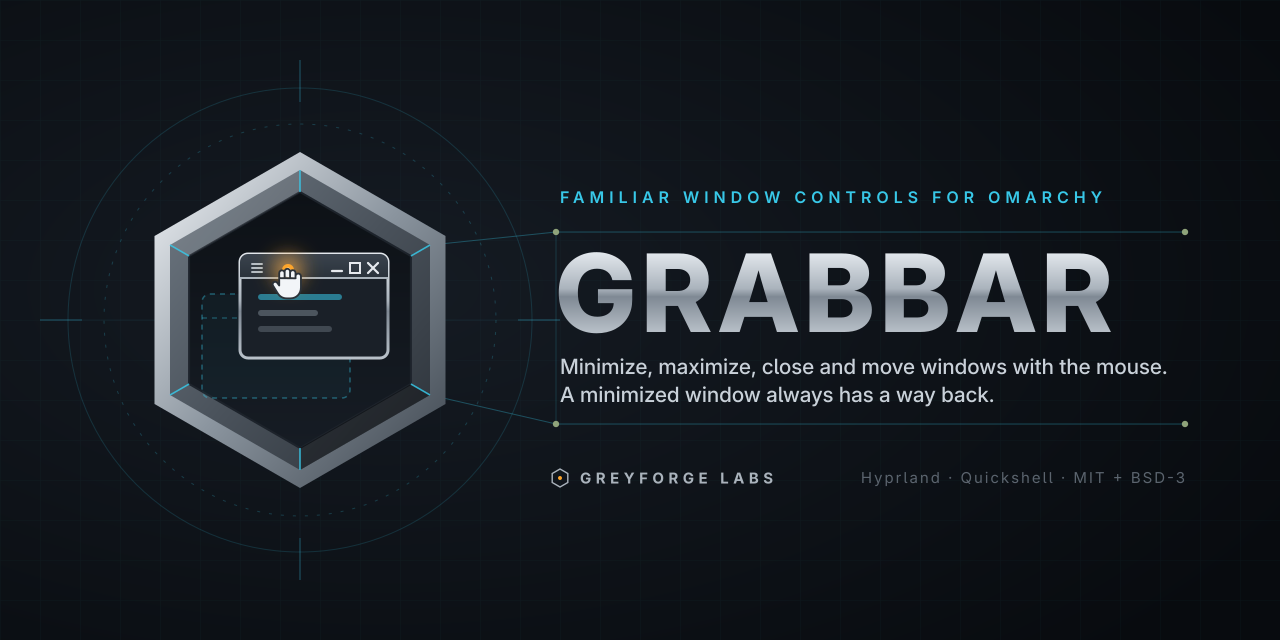
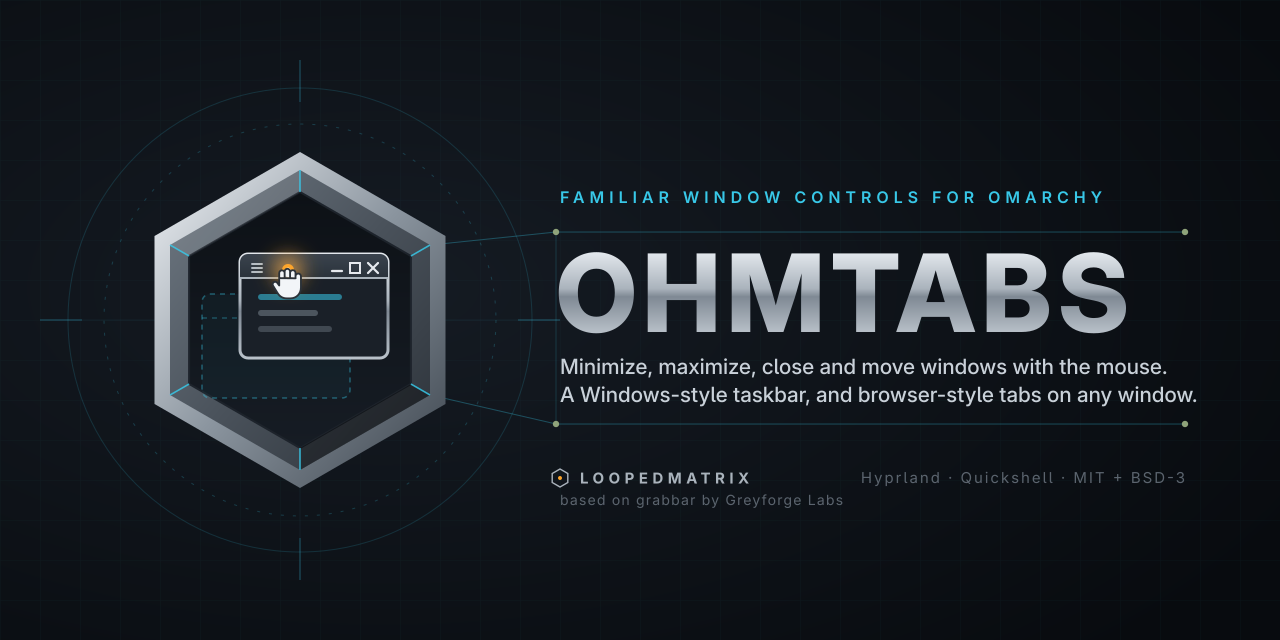
docs: rewrite the project page for OhmTabs
- README: drop the post-rename name/label bookkeeping and the
  'why a fork' framing; document what actually ships (taskbar, window
  tabs with the close-all confirmation, IPC group verbs, per-monitor
  panels), add a screenshots section and a requirements section.
- Known issues / roadmap now match reality: the multi-monitor
  duplicate-surface issue is fixed (resolveScreen), snap-lock shipped,
  and the live reports about auto-hide reveal, missed clicks and flat
  tab styling are recorded with their workarounds.
- Brand: re-render the banner and mark PNGs from their SVGs. The PNGs
  still rendered the old upstream wordmark in pixels (OCR: 'GRABBAR',
  'GREYFORGE LABS'); the banner now reads OHMTABS / LOOPEDMATRIX and
  credits grabbar by Greyforge Labs as a lineage line instead of
  presenting upstream as the brand.

Changed region(s): [[0.4688, 0.375, 0.9062, 0.5312], [0.4375, 0.5938, 0.9375, 0.6562], [0.4375, 0.7188, 0.625, 0.8125]]

diff --git a/README.md b/README.md
@@ -1,4 +1,4 @@
-<h1 align="center">ohmtabs</h1>
+# OhmTabs
 
 <p align="center">
   <img src="docs/brand/ohmtabs-banner.png" alt="OhmTabs — familiar window controls for Omarchy" width="100%">
@@ -11,29 +11,34 @@
   <img alt="Hyprland 0.56.2" src="https://img.shields.io/badge/Hyprland-0.56.2-38c8e8?labelColor=0b0f14">
 </p>
 
-**ohmtabs** gives ordinary application windows a Windows/macOS-style title strip — a window menu, Minimize, Maximize/Restore, Close, and drag-to-move — and **adds a Windows-style minimized-window taskbar** to [Omarchy](https://github.com/omacom/omarchy) (Arch + Hyprland). It is a [Quickshell](https://github.com/outfoxxed/quickshell) plugin.
+**OhmTabs** gives ordinary application windows a Windows/macOS-style title strip — window menu, Minimize, Maximize/Restore, Close, drag-to-move — and **adds two things Omarchy doesn't have out of the box**: a **Windows-style taskbar for minimized windows**, and **browser-style tabs**, where dropping one window onto another turns the target into a tab host.
 
-> **Name vs. label.** The repository and project are **ohmtabs**, but the plugin's id (`tech.loopedmatrix.ohmtabs`) and its visible label (**OhmTabs**) are intentionally kept unchanged, so live installs and saved settings keep working. In the UI and in file paths you will still see "OhmTabs"; that is the same plugin.
+It is a [Quickshell](https://github.com/outfoxxed/quickshell) plugin paired with a native Hyprland plugin that draws the strips and moves the windows.
 
-<img src="docs/screenshots/desktop.png" alt="Title strips on focused and unfocused windows" width="100%">
+<img src="docs/screenshots/desktop.png" alt="OhmTabs title strips on focused and unfocused windows" width="100%">
 
-## Why a fork?
+## Requirements
 
-OhmTabs is a personal fork of [GreyforgeLabs/omarchy-grabbar](https://github.com/GreyforgeLabs/omarchy-grabbar) ("OhmTabs"), which is itself based on [hyprbars](https://github.com/hyprwm/hyprland-plugins). We forked it because **our version deviates substantially from upstream** — it replaces the drawer-first minimized-window UX with a real taskbar and adds a scripting/IPC surface, hot-applied settings, and a critical freeze fix — changes we wanted to live under our own repo name rather than as an upstream patch. The core strip work, the journal/recovery machinery, and the test suite are inherited from upstream and credited in [License & credits](#license--credits).
+- [Omarchy](https://github.com/omacom/omarchy) 4 (Arch + Hyprland), Hyprland **0.56.2** — the native half uses the Lua dispatcher API
+- Quickshell (shipped with Omarchy), Qt 6, a C++17 compiler and `make` for the native half
+- Optional: `bin/ohmtabs` for the CLI, and a symlink into `~/.local/bin` if you want it on `PATH`
 
-### What our version adds
+## What it is, and where it comes from
+
+OhmTabs is a personal fork of [GreyforgeLabs/omarchy-grabbar](https://github.com/GreyforgeLabs/omarchy-grabbar) (which is itself based on [hyprbars](https://github.com/hyprwm/hyprland-plugins)). It was forked because the version here **deviates substantially from upstream** — the drawer-first minimized-window UX was replaced with a real taskbar, window tabs were added, and the shell-facing surface (IPC, hot-applied settings, recovery tooling) was rebuilt. Upstream's strip backend, recovery journal and test suite are inherited and credited in [License & credits](#license--credits).
 
 | Area | What changed |
 | --- | --- |
-| **Minimized-window taskbar** | A Windows-style taskbar ([`SidePanel.qml`](SidePanel.qml)) replaces the drawer-first UX. Bottom/left/right placement, auto-hide-until-hover with a 4 px reveal sliver, app badge + title + origin rows, and **Restore all**. It draws *no surface at all* when nothing is minimized (`live = panelEnabled && count > 0`). |
-| **Hot-applied settings** | Every setting in the plugin's `shell.json` entry is watched and applied live — changing `panelPosition` or `panelAutoHide` takes effect with **no shell restart**. |
-| **The freeze fix** | Upstream's bar assigns `settings`/`moduleName`/`bar` onto every widget. We made those writable, fixing a `TypeError: Cannot assign to read-only property "settings"` that wedged the whole shell (commit `0d79811`). See [Troubleshooting](#troubleshooting). |
-| **Scripting / IPC surface** | A complete command surface — `status`, `minimize`, `restore`, `restoreAll`, `openDrawer`, `openSettings`, `reconcile`, `disable`, `enable`, `ping` — plus the `bin/ohmtabs` CLI and a stable token format. |
-| **Kept from upstream** | The native title-strip backend, the drawer view, the menu, the autoload journal, and the offline test suite. |
+| **Minimized-window taskbar** | A Windows-style taskbar ([`SidePanel.qml`](SidePanel.qml)) replaces the drawer-first UX: bottom/left/right placement, app icon + title + origin workspace, **Restore all**, optional auto-hide with a 4 px reveal sliver, and *no surface at all* when nothing is minimized (`live = panelEnabled && count > 0`). |
+| **Window tabs** | Dropping a window onto another makes the target the **host** and gives its title strip a tab strip (drawn natively), browser-style: per-group alt-tab (`groupCycle`), drag a tab out to detach, and a **"close all N window(s)?"** confirmation before a group closes — see [Tab groups](#tab-groups). |
+| **Hot-applied settings** | The plugin's settings entry is watched and applied live — changing `panelPosition` or `panelAutoHide` takes effect with **no shell restart**. |
+| **Scripting / IPC surface** | A complete command surface plus the `bin/ohmtabs` CLI and a stable token format. |
+| **The freeze fix** | Upstream's bar assigns `settings`/`moduleName`/`bar` onto every widget. Those are writable here, fixing a `TypeError: Cannot assign to read-only property "settings"` that wedged the whole shell (commit `0d79811`). See [Troubleshooting](#troubleshooting). |
+| **Per-monitor panels** | The taskbar resolves its own screen (`resolveScreen()`), so multi-monitor setups get exactly one panel per monitor instead of N stacked surfaces. |
 
 ## Install
 
-Two parts: the **shell plugin** (widget, taskbar, settings, IPC) and the **native strip backend** (an Hyprland plugin that draws the strips and moves minimized windows).
+Two parts: the **shell plugin** (widget, taskbar, tabs, settings, IPC) and the **native strip backend** (a Hyprland plugin that draws the strips, hosts the tabs and moves minimized windows).
 
 ### 1. Shell plugin
 
@@ -41,7 +46,7 @@ Two parts: the **shell plugin** (widget, taskbar, settings, IPC) and the **nativ
 omarchy plugin add https://github.com/LoopedMatrix/ohmtabs.git --enable
 ```
 
-This installs the plugin to `~/.config/omarchy/plugins/tech.loopedmatrix.ohmtabs` (the id is kept from upstream for compatibility) and enables it.
+This installs to `~/.config/omarchy/plugins/tech.loopedmatrix.ohmtabs` and enables it.
 
 ### 2. Native strip backend
 
@@ -51,17 +56,17 @@ make -C native/ohmtabs CXX=g++
 hyprctl plugin load ./native/ohmtabs/ohmtabs.so
 ```
 
-> **Without the native part** there are no strips and Minimize stays off; the shell side (bar widget, taskbar/drawer, settings, IPC) still mounts and the drawer still lists nothing to restore.
+> **Without the native part** there are no strips, no tabs, and Minimize stays off; the shell side (bar widget, taskbar, settings, IPC) still mounts.
 
-### 3. Autoload (optional)
+### 3. Autoload and the CLI (optional)
 
 ```sh
 cd ~/.config/omarchy/plugins/tech.loopedmatrix.ohmtabs
-ln -s "$(pwd)/bin/ohmtabs" ~/.local/bin/ohmtabs   # optional, for the CLI
-ohmtabs autoload enable                           # survive shell restarts
+ln -s "$(pwd)/bin/ohmtabs" ~/.local/bin/ohmtabs   # optional: CLI on PATH
+ohmtabs autoload enable                           # survive compositor/shell restarts
 ```
 
-See [docs/AUTOLOAD.md](docs/AUTOLOAD.md) for what autoload does under the hood.
+[`docs/AUTOLOAD.md`](docs/AUTOLOAD.md) explains the autoload hook and its boot guard.
 
 ## Everyday use
 
@@ -70,38 +75,45 @@ See [docs/AUTOLOAD.md](docs/AUTOLOAD.md) for what autoload does under the hood.
 Every ordinary application window gets a strip above its top edge:
 
 - **Menu** (hamburger) or **right-click the strip** — window menu (Restore, Minimize, Maximize/Restore, Close).
-- **Minimize** — moves the window off-screen to the minimized workspace and shows it in the taskbar.
+- **Minimize** — moves the window to the minimized workspace and shows it in the taskbar.
 - **Maximize/Restore** — the button reflects the current state.
 - **Close** — closes the window.
 - **Drag the strip** — move the window; dragging a tiled window detaches it to floating at 60 %.
 - **Double-click the title** — toggle maximize.
 - **Resize** — drag the strip's edge/corners with `general:resize_on_border = true`.
 
-Window controls sit on the right by default; set `buttonsLeft` to put them on the left. Hide the strip for specific apps with `excludedClasses`.
+Controls sit on the right by default; `buttonsLeft` moves them to the left. Hide the strip per app with `excludedClasses`.
 
 ### Minimizing and the taskbar
 
-Minimizing moves a window to the special workspace `special:ohmtabs-minimized`; the taskbar shows one row per minimized window (app badge, title, and the workspace it came from):
+Minimizing moves a window to the special workspace `special:ohmtabs-minimized`. The taskbar shows one button per minimized window, with the app's real icon, the title, and the workspace it came from:
 
-- **Left-click** a row → restore to the **current** workspace.
-- **Right-click** a row → restore to its **original** workspace.
+- **Left-click** a button → restore to the **current** workspace.
+- **Right-click** a button → restore to its **original** workspace.
 - **Restore all** (far end) → restore everything.
-- The taskbar sits on the bottom by default; `panelPosition` moves it to `left` or `right`, and `panelAutoHide` parks it off-screen with a 4 px sliver that expands on hover.
-- When the taskbar is empty it is entirely hidden (by design).
+- Default placement is the bottom; `panelPosition` moves it to `left` or `right`, and `panelAutoHide` parks it off-screen behind a 4 px sliver that expands on hover.
+- Empty taskbar → no surface at all (by design).
+
+### Tab groups
+
+Tab grouping is opt-in: set `tabGroups: true` on the plugin's settings entry.
+
+- **Drop a window onto another** — the target becomes the **host**, its title strip gains a tab strip, and the dropped window becomes a tab. Tab titles come from the windows themselves.
+- **Click a tab** to switch to it; **drag a tab out** to detach it back into a normal window. A group that drops to one window dissolves.
+- **Alt-tab inside a group** is exposed as `groupCycle <hostToken> <prev|next> <pointerInside>`, not as an installed keybind. Bind a key (e.g. `SUPER+TAB`) that calls it and falls back to the compositor (`hyprctl cyclenext`) when it returns `fallthrough` — i.e. when the pointer is not over the host's tab strip. Hyprland's built-in alt-tab is a compositor binding no plugin can intercept, so nothing changes until you add that binding.
+- **Closing a group** with more than one window asks first — *"are you sure you want to close all N windows?"* — listing the tab titles, with **Cancel** and **Close all**. Cancel/Escape dismisses it with no action, and it does not steal focus from the rest of the shell.
 
 ### The bar drawer
 
-The bar widget shows a window-stack glyph and a count of minimized windows:
+The bar widget shows a window-stack glyph and a count:
 
-- **Left-click** the widget → open the drawer (newest-first list with Restore / Original workspace / Restore all).
-- **Middle-click** the widget → restore all.
-- **Right-click** the widget → open settings.
+- **Left-click** → open the drawer (newest-first list with Restore / Original workspace / Restore all).
+- **Middle-click** → restore all.
+- **Right-click** → open settings.
 
-When `sidePanel` is `true` (the default), the taskbar appears on its own and the drawer doubles as the detail view.
+### Keyboard navigation
 
-### Keyboard navigation in the taskbar
-
-Hovering or clicking a row gives the panel keyboard focus, after which:
+Hovering or clicking a button gives the panel keyboard focus:
 
 | Key | Action |
 | --- | --- |
@@ -112,152 +124,140 @@ Hovering or clicking a row gives the panel keyboard focus, after which:
 | `Ctrl`+`A` | Restore all |
 | `Esc` | Dismiss |
 
+## Screenshots
+
+| | |
+| --- | --- |
+| <img src="docs/screenshots/drawer.png" alt="The minimized-windows drawer"> | <img src="docs/screenshots/window-menu.png" alt="The window menu on a title strip"> |
+| The drawer | The window menu |
+| <img src="docs/screenshots/settings.png" alt="OhmTabs settings"> | <img src="docs/screenshots/drawer-card.png" alt="Minimized-window card"> |
+| Settings | A minimized-window card |
+
 ## Configuration
 
-Settings live in the plugin's `shell.json` entry (edit through **Settings**, or directly in the shell config). All of them hot-apply — the service watches the entry and re-reads it live, no shell restart needed.
+Settings live in the plugin's `shell.json` entry — edit them in **Settings** (bar widget → right-click → Settings) or directly in the shell config. All of them hot-apply; no shell restart.
 
 | Key | Type | Default | Effect |
 | --- | --- | --- | --- |
 | `enabled` | bool | `true` | Master switch for strips + Minimize. Turning it off restores minimized windows first. |
 | `buttonsLeft` | bool | `false` | Window controls on the left (`true`) or right (`false`). |
-| `showOnHover` | bool | `false` | *Legacy* — draw the strip only while the pointer is near the window's top edge. |
-| `controlSize` | `"standard"` \| `"large"` | `"standard"` | Strip thickness: 34 px (standard) vs 46 px (large). |
+| `showOnHover` | bool | `false` | Draw the strip only while the pointer is near the window's top edge (legacy upstream behaviour). |
+| `controlSize` | `"standard"` \| `"large"` | `"standard"` | Strip thickness: 34 px vs 46 px. |
 | `excludedClasses` | string[] | `[]` | App classes whose windows get no strip (same as "Hide OhmTabs for this app"). |
 | `sidePanel` | bool | `true` | Windows-style taskbar (`true`) vs the in-bar drawer only (`false`). |
 | `panelPosition` | `"bottom"` \| `"left"` \| `"right"` | `"bottom"` | Screen edge the taskbar sits on. |
 | `panelAutoHide` | bool | `true` | Park the taskbar off the edge until the pointer reaches it. |
-| `tabGroups` | bool | `false` | If `true`, the bar accepts window-tab grouping: dropping one window onto another hosts a tab group, alt-tab within a group is exposed as the opt-in `groupCycle` method (no keybind is installed by default), and closing a group with more than one window asks before closing all of them. The tab strip itself is drawn by the native backend on the host window's title strip; the shell side is the IPC + the close-all confirm prompt. |
+| `tabGroups` | bool | `false` | Enable window tabs (host/tab creation, `groupCycle`, close-all confirmation). The tab strip itself is drawn natively on the host's title strip. |
 
-### Tab groups
-
-When `tabGroups: true` is set on the bar's layout entry:
-
-- **Dropping a window onto another** makes the target the *host* and turns the dragged window into a tab in the host's group. The host's native title strip gains the tab strip (drawn natively). The shell keeps the group state and the list of tab titles; the visual strip is the backend's.
-- **Alt-tab within a group** is a decision the shell exposes, not a binding this plugin installs. `omarchy-shell tech.loopedmatrix.ohmtabs groupCycle <hostToken> <prev|next> <true|false>` returns the token of the tab it switched to, or `fallthrough` when the group holds fewer than two tabs or the pointer is not over the host's strip. Browser-like alt-tab is therefore opt-in: bind a key (e.g. SUPER+TAB) that calls `groupCycle` and, on `fallthrough`, hands alt-tab back to the compositor (e.g. `hyprctl cyclenext`). Hyprland's built-in alt-tab is a compositor binding the plugin cannot intercept, so nothing changes until you add that binding.
-- **Closing a group** with more than one window triggers a confirm prompt: "are you sure you want to close all N windows?" with the tab titles listed, like a browser. Yes closes all the group's windows; Cancel/Escape dismisses the prompt with no action. There is no focus steal from the rest of the shell for the prompt.
-- The `tabGroups` setting is off by default. Until it is turned on explicitly in the bar's layout entry, the tab verbs are not wired and nothing about the panel changes.
-- The close-all prompt is a theme-matched popup built on the shell's `PopupCard` UI component, so it inherits the user's theme rather than being a separate-styled card. It lists the tab titles and offers **Cancel** and **Close all**; Escape dismisses it with no action.
-
-Unknown keys are ignored; invalid values fall back to the default. Values are validated in [`OhmTabsModel.js`](OhmTabsModel.js) (`normalizeSettings`).
+Unknown keys are ignored and invalid values fall back to the default; validation lives in [`OhmTabsModel.js`](OhmTabsModel.js) (`normalizeSettings`).
 
 ### Native config fallback
 
-When the shell isn't connected yet, the native backend falls back to `plugin:ohmtabs:*` keys in `hyprland.lua` (these are overridden by the shell theme/settings once connected):
+Before the shell connects, the native half reads `plugin:ohmtabs:*` keys set in `hyprland.lua` (the shell's theme/settings override them once connected):
 
-`enabled`, `buttons_left`, `bar_height` (34), `button_size` (32), `padding` (4), `text_size` (11), `text_font` (`"Sans"`), `bar_color`, `inactive_bar_color`, `text_color`, `hover_color`, `close_hover_color`, `shell_grace_ms` (2000). Per-window opt-out via the `ohmtabs:no_bar` window rule.
+`enabled`, `buttons_left`, `bar_height` (34), `button_size` (32), `padding` (4), `text_size` (11), `text_font` (`"Sans"`), `bar_color`, `inactive_bar_color`, `text_color`, `hover_color`, `close_hover_color`, `shell_grace_ms` (2000). Per-window opt-out with the `ohmtabs:no_bar` window rule.
 
 ## Command line & scripting
 
-`bin/ohmtabs` (optionally linked into `~/.local/bin`) wraps the plugin's IPC:
+`bin/ohmtabs` wraps the plugin's IPC:
 
 ```
-ohmtabs                 open the drawer
-ohmtabs settings        open settings
-ohmtabs status [--json] show backend + minimized-window state
-ohmtabs windows         list known windows
+ohmtabs                      open the minimized-windows drawer (Settings when OhmTabs is off)
+ohmtabs setup|settings       open Settings (setup includes the setup check)
+ohmtabs status [--json]      health, compatibility and owned minimized-window metadata
+ohmtabs windows              list windows known to the native backend
 ohmtabs restore TOKEN [--original]   restore one minimized window
-ohmtabs restore-all     restore all minimized windows
-ohmtabs doctor          diagnose the install
+ohmtabs restore-all          recover every live window owned by OhmTabs
+ohmtabs doctor               read-only diagnostic report; never an implicit repair
 ohmtabs autoload status|enable|disable|retry
-ohmtabs enable|disable  toggle the plugin
-ohmtabs uninstall       remove autoload + backend
+ohmtabs enable|disable       toggle OhmTabs (disable restores windows first)
+ohmtabs uninstall            restore windows, turn OhmTabs off, remove autoload hook + plugin
 ```
 
 Exit codes: `0` ok · `2` usage · `3` backend unavailable · `4` stale target · `5` restore UI unavailable (shell service not running) · `6` state write failed · `7` incomplete recovery.
 
 ### IPC surface
 
-The plugin's `IpcHandler` (in [`Service.qml`](Service.qml)) exposes these methods over Quickshell's IPC — call them via `omarchy-shell tech.loopedmatrix.ohmtabs <method> [args]`:
+The plugin's `IpcHandler` (in [`Service.qml`](Service.qml)) is reachable over Quickshell's IPC — `omarchy-shell tech.loopedmatrix.ohmtabs <method> [args]`:
 
 | Method | Args | Returns |
 | --- | --- | --- |
 | `status` | — | JSON: `backend.ready`, `enabled`, `minimizeEnabled`, `restoreHost`, `failed`, `backend.epoch`, `entries[]`, `minimized` |
-| `minimize` | `token` | Minimizes the window identified by `token` |
+| `minimize` | `token` | Minimizes the identified window |
 | `restore` | `token`, `mode` | Restores `token`; `mode` is `"original"` or `"current"` |
 | `restoreAll` | — | Restores every minimized window |
-| `openDrawer` | — | Opens the bar drawer |
-| `openSettings` | — | Opens settings |
+| `openDrawer` / `openSettings` | — | Opens the drawer / settings |
 | `reconcile` | — | Re-syncs model state with the backend |
-| `disable` / `enable` | — | Toggle the plugin |
-| `ping` | — | Liveness check |
+| `disable` / `enable` / `ping` | — | Toggle the plugin / liveness check |
+| `groupCreate` / `groupRemove` | `token` | Turn a window into a tab host / dissolve its group |
+| `groupAddMember` / `groupRemoveMember` | `hostToken`, `memberToken` | Add or detach a tab |
+| `groupActivate` | `hostToken`, `memberToken` | Switch a group to that tab |
+| `groupCycle` | `hostToken`, `prev\|next`, `pointerInside` | Next/previous tab, or `fallthrough` |
+| `groupClose` / `groupCloseForce` | `token` | Close a group (Force skips the confirmation) |
 
-**Token format.** Each minimized window is identified by a token `g<epoch>-<generation>` (e.g. `g1789644541-6`), minted by `tokenFor()` in [`native/ohmtabs/backend.cpp`](native/ohmtabs/backend.cpp). Read the token from `ohmtabs status --json` (`entries[].token`), then `ohmtabs restore g1789644541-6 --original`. Tokens are stable until the backend restarts.
+**Token format.** Every tracked window is identified by `g<epoch>-<generation>` (e.g. `g1789644541-6`), minted by `tokenFor()` in [`native/ohmtabs/backend.cpp`](native/ohmtabs/backend.cpp). Read tokens from `ohmtabs status --json` (`entries[].token`), then `ohmtabs restore g1789644541-6 --original`. Tokens are stable until the backend restarts.
 
-A full, machine-oriented write-up is in [docs/PROTOCOL.md](docs/PROTOCOL.md).
+The full machine-oriented write-up is in [docs/PROTOCOL.md](docs/PROTOCOL.md).
 
 ## Development
 
-### Build & test
-
 ```sh
-# native backend
-make -C native/ohmtabs CXX=g++
-
-# QML syntax (import-path warnings are expected and fine)
-/usr/lib/qt6/bin/qmllint --bare BarWidget.qml
-
-# offline test suite (must be green)
-tests/run.sh
+make -C native/ohmtabs CXX=g++                  # native backend
+/usr/lib/qt6/bin/qmllint --bare BarWidget.qml   # QML syntax (import-path warnings are expected)
+tests/run.sh                                    # offline test suite — must be green
 ```
 
-**Validate before you deploy:** `tests/run.sh` green, and `qmllint --bare` on any QML you touched. The nested-Hyprland rig in [tests/integration/](tests/integration/) and [docs/QUALIFICATION.md](docs/QUALIFICATION.md) let you exercise the plugin in a nested session, so the live desktop is never needed for testing.
+**Validate before you deploy:** `tests/run.sh` green plus `qmllint --bare` on every QML file you touched. The nested-Hyprland rig in [tests/integration/](tests/integration/) and [docs/QUALIFICATION.md](docs/QUALIFICATION.md) exercise the plugin in a nested session, so the live desktop is never needed for testing.
 
-### Worktree layout
-
-Development happens in git worktrees, one per branch:
-
-```sh
-git worktree add ../omarchy-window-wt-docs docs/readme   # e.g. this docs branch
-```
-
-The live deployed plugin is a separate checkout; **never edit the deployed checkout** — validate in a worktree, then deploy with the rollback path below.
+Development happens in git worktrees, one per branch (`git worktree add ../ohmtabs-wt-<topic> <branch>`). The live deployed plugin is a separate checkout — **never edit the deployed checkout**; validate in a worktree, then deploy with the path below.
 
 ## Deployment, rollback & recovery
 
-The author's daily-driver desktop deploys this fork through the `omarchy-rescue` helper rather than `omarchy plugin add`:
+This fork is deployed on its author's desktop through an `omarchy-rescue` helper rather than `omarchy plugin add`:
 
 ```sh
-omarchy-rescue ohmtabs-on    # symlink this fork into the plugins dir + restart shell
+omarchy-rescue ohmtabs-on    # symlink this checkout into the plugins dir + restart the shell
 omarchy-rescue ohmtabs-off   # restore the stable copy
 ```
 
-Parked/replaced plugin copies are deliberately kept **outside** the plugins directory, so a same-id parked copy can never shadow the deployed one (see [Troubleshooting](#troubleshooting)). A shell restart is `omarchy restart shell`; the native service is `keepLoaded`, so hot reloads keep the old backend.
+Parked/replaced plugin copies are deliberately kept **outside** the plugins directory, so a same-id parked copy can never shadow the deployed one (see [Troubleshooting](#troubleshooting)). A shell restart is `omarchy restart shell`; the native service is `keepLoaded`, so a shell hot-reload keeps the old backend until the compositor restarts.
 
 `ohmtabs-on` is **gated and self-reverting**, because deploying an untested plugin is what wedged this desktop once:
 
-- **Before deploying** it refuses to swap anything unless `manifest.json` declares the expected plugin id, `qmllint --bare` reports no syntax errors on every QML file, and `tests/run.sh` is green. `FORCE=1` overrides.
-- **After restarting** it verifies the plugin actually came up — `backend.ready`, `minimizeEnabled`, `restoreHost`, and no read-only-`settings` TypeError in the shell log written since the deploy — and **automatically rolls back** to the stable copy if any check fails. `ROLLBACK=0` disables the check.
-- `omarchy-rescue status` reports live plugin health (backend/version/epoch, minimize, restore host, minimized count, failed restores) and the taskbar's layer geometry, flagging the duplicate-surface case.
+- **Before deploying** it refuses to swap anything unless `manifest.json` declares the expected plugin id, `qmllint --bare` reports no syntax errors on every QML file, and `tests/run.sh` is green (`FORCE=1` overrides).
+- **After restarting** it verifies the plugin came up — `backend.ready`, `minimizeEnabled`, `restoreHost`, and no read-only-`settings` `TypeError` in the shell log written since the deploy — and **automatically rolls back** to the stable copy if any check fails (`ROLLBACK=0` disables the check for a first deploy that can only pass after the native half reloads).
+- `omarchy-rescue status` reports live health (backend/version/epoch, minimize, restore host, minimized count, failed restores) and the taskbar's layer geometry, flagging the duplicate-surface case.
 
 ### Keeping the desktop alive
 
-The operator's desktop runs a small recovery toolkit alongside the plugin (not part of this repository):
-
-- **`omarchy-rescue`** — subcommands `status`, `shell`, `ohmtabs-off`, `ohmtabs-on`, `logs`, `sysrq`, `reboot`.
-- **systemd --user watchdog** — `omarchy-shell-watchdog.timer` probes the shell every 15 s and restarts it after 3 consecutive failures.
-- **Keybind** — `SUPER+CTRL+SHIFT+R` = "Rescue desktop".
-- **Root-level half** — hardware watchdog / sysrq / panic handling, installed once with `sudo install.sh`.
+The author's desktop also runs a small recovery toolkit (not part of this repository): `omarchy-rescue` (`status`, `shell`, `ohmtabs-off`, `ohmtabs-on`, `logs`, `sysrq`, `reboot`), a `systemd --user` watchdog (`omarchy-shell-watchdog.timer`, probes the shell every 15 s and restarts it after 3 consecutive failures), a `SUPER+CTRL+SHIFT+R` "Rescue desktop" binding, and a root-level hardware-watchdog/sysrq half installed once with `sudo install.sh`.
 
 ## Troubleshooting
 
 **Shell frozen with `TypeError: Cannot assign to read-only property "settings"`.**
-Upstream's bar assigns `settings` (and `moduleName`, `bar`) onto every widget. If those are `readonly`, the assignment throws and wedges the shell. Fixed in commit `0d79811`. **Rule for contributors: never make `settings`, `moduleName`, or `bar` `readonly` in a widget.** Full write-up: [SYSTEM-BREAKING-BUG.md](SYSTEM-BREAKING-BUG.md).
+Upstream's bar assigns `settings` (and `moduleName`, `bar`) onto every widget. If those are `readonly`, the assignment throws and wedges the shell. Fixed in commit `0d79811`. **Rule for contributors: never make `settings`, `moduleName` or `bar` `readonly` in a widget.** Full write-up: [SYSTEM-BREAKING-BUG.md](SYSTEM-BREAKING-BUG.md).
 
 **A parked plugin copy shadows the deployed one.**
-Omarchy loads plugins by id, so two copies of `tech.loopedmatrix.ohmtabs` anywhere under the plugins directory is ambiguous. Keep replaced copies *outside* the plugins directory (that is exactly why `ohmtabs-off` parks them outside).
+Omarchy loads plugins by id, so two copies of `tech.loopedmatrix.ohmtabs` under the plugins directory are ambiguous — you end up debugging the wrong code. Keep replaced copies *outside* the plugins directory (that is why `ohmtabs-off` parks them there) and check `ls -la ~/.config/omarchy/plugins/` after a deploy.
 
-**Two stacked taskbar surfaces on one monitor.**
-Omarchy creates one bar per monitor, and the taskbar panel doesn't bind a screen — so with two monitors you can get both panels stacked on the same monitor. A fix is in development; see [Known issues](#known-issues).
+**The strips are gone and Minimize is refused.**
+The native half is not loaded: `hyprctl plugin list` should show `OhmTabs by LoopedMatrix`. If it does not, either the `.so` was never loaded in this session (`hyprctl plugin load ./native/ohmtabs/ohmtabs.so`) or the autoload boot guard tripped after a fresh start — `ohmtabs autoload status` / `ohmtabs autoload retry`, then `hyprctl reload`.
+
+**Nothing responds after editing the native half.**
+A rebuilt `.so` is not picked up while it is mapped into the running compositor: the QML half hot-reloads, the native half needs a compositor restart. Never write into a mapped `.so` — replace it atomically (`mv`) so the loaded image stays intact.
 
 ## Known issues
 
-1. **Multi-monitor duplicate taskbar surfaces.** Because the panel doesn't bind a screen and Omarchy spawns one bar per monitor, two taskbar surfaces can end up stacked on one monitor. A fix is in development.
-2. **`m_showOnHover` flag reuse.** In the native backend, `m_showOnHover` is reused both as the mode flag and as the revealed-state flag (a pre-existing, upstream-adjacent issue).
+1. **`m_showOnHover` flag reuse (native).** `m_showOnHover` is used both as the mode flag and as the revealed-state flag, which makes hover-reveal behaviour hard to reason about. Inherited from upstream.
+2. **Taskbar auto-hide reveal is unreliable.** When `panelAutoHide` is on, the panel can reveal when the pointer merely rests near its edge (e.g. with no other windows open), and buttons sometimes do not take clicks. Until this is fixed, set `panelAutoHide: false` — the panel then stays visible whenever something is minimized. Fix in progress.
+3. **Tab-strip separation and feel.** Tab groups work, but the host's tab strip is visually flat (selected vs. unselected tabs are close in tone) and switching is not as snappy as it should be. Work in progress.
 
-## Roadmap (in development)
+## Roadmap
 
-- **Windows-style snap-lock** — dragging a window to a screen edge snaps it into a tiled/locked position (native).
-- **Live verification harness** — `tests/integration/live-verify.sh` to run the qualification checks against the real desktop.
+- **Taskbar reveal + hit-testing** — make auto-hide reliable enough to re-enable, and fix missed clicks on taskbar buttons (issue 2 above).
+- **Tab-strip visuals** — clearer selected/unselected separation, hover feedback, and faster switching.
+- **Snap preview rectangle** — the drop-target outline for edge snapping (config key reserved, not yet drawn).
+- **Live verification harness** — `tests/integration/live-verify.sh`, to run the qualification checks against the real desktop.
 
 ## Documentation
 
@@ -275,4 +275,4 @@ Omarchy creates one bar per monitor, and the taskbar panel doesn't bind a screen
 
 ## License & credits
 
-MIT — the original OhmTabs plugin is Copyright (c) 2024 GreyforgeLabs (see [LICENSE](LICENSE)). The native title-bar backend derives from **hyprbars** and is BSD-3-Clause (see [THIRD_PARTY_NOTICES](THIRD_PARTY_NOTICES)). Both notices are retained intact, as required for a fork.
+MIT — see [LICENSE](LICENSE). The native title-strip backend derives from **hyprbars** and is BSD-3-Clause (see [THIRD_PARTY_NOTICES](THIRD_PARTY_NOTICES)). OhmTabs is a fork of **grabbar by [Greyforge Labs](https://github.com/GreyforgeLabs/omarchy-grabbar)**; both upstream notices are retained intact, as required for a fork. Fork maintained by [LoopedMatrix](https://github.com/LoopedMatrix).
